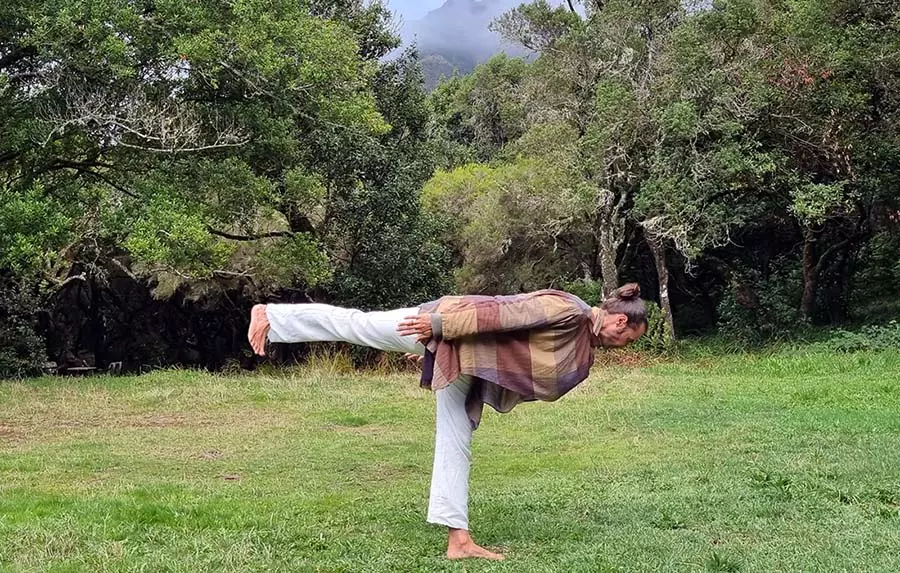
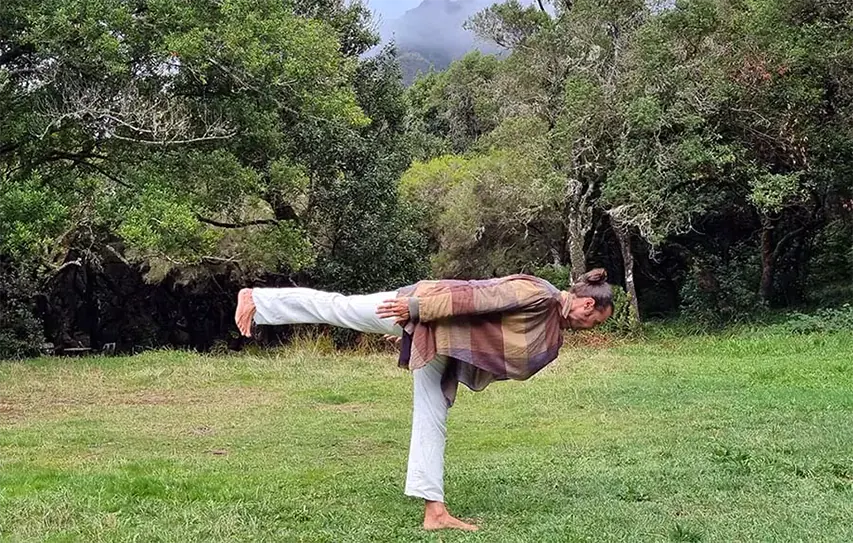
several acts pics

diff --git a/ecodesign.html b/ecodesign.html
@@ -83,7 +83,7 @@
         </div>
       </nav>      
       
-      <section class="home-section bg-dark-30" id="home" data-background="assets/images/missaoheader.png">
+      <section class="home-section bg-dark-30" id="home" data-background="assets/images/missaoheader.webp">
         
         <div class="video-player" data-property="{videoURL:'https://youtu.be/JY6f6TCxRAc', optimizeDisplay: true, containment:'.home-section', startAt:0, mute:false, autoPlay:true, loop:true, opacity:1, showControls:false, showYTLogo:false, vol:25}"></div>
       
@@ -123,60 +123,60 @@
               <div class="col-sm-6 col-md-4 col-lg-4">
                 <div class="gallery-item">
                   <div class="gallery-image">
-                    <a class="gallery" href="assets/images/yoga/yoga12.jpg" title="Prana Yoga">
-                      <img src="assets/images/yoga/yoga1.png" alt="Prana Yoga"><div class="gallery-caption"><div class="gallery-icon"><span class="icon-magnifying-glass"></span></div></div></a></div></div></div>
+                    <a class="gallery" href="assets/images/yoga/yoga12.webp" title="Prana Yoga">
+                      <img src="assets/images/yoga/yoga1.webp" alt="Prana Yoga"><div class="gallery-caption"><div class="gallery-icon"><span class="icon-magnifying-glass"></span></div></div></a></div></div></div>
                       <div class="col-sm-6 col-md-4 col-lg-4">
-                        <div class="gallery-item"><div class="gallery-image"><a class="gallery" href="assets/images/yoga/yoga22.jpg" title="Prana Yoga">
-                          <img src="assets/images/yoga/yoga2.png" alt="Prana Yoga">
+                        <div class="gallery-item"><div class="gallery-image"><a class="gallery" href="assets/images/yoga/yoga22.webp" title="Prana Yoga">
+                          <img src="assets/images/yoga/yoga2.webp" alt="Prana Yoga">
                           <div class="gallery-caption">
                             <div class="gallery-icon"><span class="icon-magnifying-glass"></span></div></div></a></div></div></div>
                             <div class="col-sm-6 col-md-4 col-lg-4">
                               <div class="gallery-item">
-                                <div class="gallery-image"><a class="gallery" href="assets/images/yoga/yoga32.jpg" title="Prana Yoga">
-                                  <img src="assets/images/yoga/yoga3.png" alt="Prana Yoga"><div class="gallery-caption">
+                                <div class="gallery-image"><a class="gallery" href="assets/images/yoga/yoga32.webp" title="Prana Yoga">
+                                  <img src="assets/images/yoga/yoga3.webp" alt="Prana Yoga"><div class="gallery-caption">
                                     <div class="gallery-icon"><span class="icon-magnifying-glass"></span></div></div></a></div></div></div>
                                     <div class="col-sm-6 col-md-4 col-lg-4"><div class="gallery-item"><div class="gallery-image">
-                                      <a class="gallery" href="assets/images/yoga/yoga42.jpg" title="Prana Yoga">
-                                        <img src="assets/images/yoga/yoga4.png" alt="Prana Yoga">
+                                      <a class="gallery" href="assets/images/yoga/yoga42.webp" title="Prana Yoga">
+                                        <img src="assets/images/yoga/yoga4.webp" alt="Prana Yoga">
                                         <div class="gallery-caption"><div class="gallery-icon"><span class="icon-magnifying-glass">
 
                                         </span></div></div></a></div></div></div>
                                         <div class="col-sm-6 col-md-4 col-lg-4"><div class="gallery-item">
                                           <div class="gallery-image">
-                                            <a class="gallery" href="assets/images/yoga/yoga52.png" title="Prana Yoga">
-                                              <img src="assets/images/yoga/yoga5.png" alt="Prana Yoga">
+                                            <a class="gallery" href="assets/images/yoga/yoga52.webp" title="Prana Yoga">
+                                              <img src="assets/images/yoga/yoga5.webp" alt="Prana Yoga">
                                               <div class="gallery-caption"><div class="gallery-icon">
                                                 <span class="icon-magnifying-glass"></span></div></div></a></div></div></div>
                                                 <div class="col-sm-6 col-md-4 col-lg-4"><div class="gallery-item">
                                                   <div class="gallery-image">
-                                                    <a class="gallery" href="assets/images/yoga/yoga62.jpg" title="Prana Yoga">
-                                                      <img src="assets/images/yoga/yoga6.png" alt="Prana Yoga"><div class="gallery-caption">
+                                                    <a class="gallery" href="assets/images/yoga/yoga62.webp" title="Prana Yoga">
+                                                      <img src="assets/images/yoga/yoga6.webp" alt="Prana Yoga"><div class="gallery-caption">
                                                         <div class="gallery-icon"><span class="icon-magnifying-glass"></span></div></div></a></div></div></div>
                                                         <div class="col-sm-6 col-md-4 col-lg-4"><div class="gallery-item"><div class="gallery-image">
-                                                          <a class="gallery" href="assets/images/yoga/yoga72.jpg" title="Prana Yoga">
-                                                            <img src="assets/images/yoga/yoga7.png" alt="Prana Yoga"><div class="gallery-caption">
+                                                          <a class="gallery" href="assets/images/yoga/yoga72.webp" title="Prana Yoga">
+                                                            <img src="assets/images/yoga/yoga7.webp" alt="Prana Yoga"><div class="gallery-caption">
                                                               <div class="gallery-icon"><span class="icon-magnifying-glass"></span></div></div></a></div></div></div>
                                                               <div class="col-sm-6 col-md-4 col-lg-4"><div class="gallery-item"><div class="gallery-image">
-                                                                <a class="gallery" href="assets/images/yoga/yoga82.jpg" title="Prana Yoga">
-                                                                  <img src="assets/images/yoga/yoga8.png" alt="Prana Yoga"><div class="gallery-caption">
+                                                                <a class="gallery" href="assets/images/yoga/yoga82.webp" title="Prana Yoga">
+                                                                  <img src="assets/images/yoga/yoga8.webp" alt="Prana Yoga"><div class="gallery-caption">
                                                                     <div class="gallery-icon"><span class="icon-magnifying-glass"></span></div></div></a></div></div></div>
                                                                     <div class="col-sm-6 col-md-4 col-lg-4"><div class="gallery-item"><div class="gallery-image">
-                                                                      <a class="gallery" href="assets/images/yoga/yoga102.jpg" title="Prana Yoga">
-                                                                        <img src="assets/images/yoga/yoga10.png" alt="Prana Yoga"><div class="gallery-caption">
+                                                                      <a class="gallery" href="assets/images/yoga/yoga102.webp" title="Prana Yoga">
+                                                                        <img src="assets/images/yoga/yoga10.webp" alt="Prana Yoga"><div class="gallery-caption">
                                                                           <div class="gallery-icon"><span class="icon-magnifying-glass"></span></div></div></a></div></div></div>
                                                                          
                                                                                 <div class="col-sm-6 col-md-4 col-lg-4"><div class="gallery-item"><div class="gallery-image">
-                                                                                  <a class="gallery" href="assets/images/yoga/yoga122.jpg" title="Prana Yoga">
-                                                                                    <img src="assets/images/yoga/yoga12.png" alt="Prana Yoga"><div class="gallery-caption">
+                                                                                  <a class="gallery" href="assets/images/yoga/yoga122.webp" title="Prana Yoga">
+                                                                                    <img src="assets/images/yoga/yoga12.webp" alt="Prana Yoga"><div class="gallery-caption">
                                                                                       <div class="gallery-icon"><span class="icon-magnifying-glass"></span></div></div></a></div></div></div>
                                                                     <div class="col-sm-6 col-md-4 col-lg-4"><div class="gallery-item"><div class="gallery-image">
-                                                                      <a class="gallery" href="assets/images/yoga/yoga92.png" title="Prana Yoga">
-                                                                        <img src="assets/images/yoga/yoga9.png" alt="Prana Yoga"><div class="gallery-caption">
+                                                                      <a class="gallery" href="assets/images/yoga/yoga92.webp" title="Prana Yoga">
+                                                                        <img src="assets/images/yoga/yoga9.webp" alt="Prana Yoga"><div class="gallery-caption">
                                                                           <div class="gallery-icon"><span class="icon-magnifying-glass"></span></div></div></a></div></div></div>
                                                                           
                                                                                             <div class="col-sm-6 col-md-4 col-lg-4"><div class="gallery-item"><div class="gallery-image">
-                                                                                              <a class="gallery" href="assets/images/yoga/yoga132.jpg" title="Prana Yoga">
-                                                                                                <img src="assets/images/yoga/yoga13.png" alt="Prana Yoga"><div class="gallery-caption">
+                                                                                              <a class="gallery" href="assets/images/yoga/yoga132.webp" title="Prana Yoga">
+                                                                                                <img src="assets/images/yoga/yoga13.webp" alt="Prana Yoga"><div class="gallery-caption">
                                                                                                   <div class="gallery-icon"><span class="icon-magnifying-glass"></span></div></div></a></div></div></div>
                                                                         </div>
             <div class="row">
@@ -200,14 +200,14 @@
                 </ul>-->    
                 <ul class="works-grid works-grid-gut works-hover-g" id="works-grid" style="margin-bottom:60px;">
                   <li class="work-item illustration webdesign"><a href="missao.html">
-                      <div class="work-image"><img src="assets/images/aulasp.png" alt="Portfolio Item"/></div>
+                      <div class="work-image"><img src="assets/images/aulasp.webp" alt="Portfolio Item"/></div>
                       <div class="work-caption font-alt">
-                        <img src="assets/images/yogA/yoga personalizada.jpg" alt="Portfolio Item"/>
+                        <img src="assets/images/yogA/yoga personalizada.webp" alt="Portfolio Item"/>
                       </div></a></li>
                   <li class="work-item marketing photography"><a href="portfolio_single_featured_image2.html">
-                    <div class="work-image"><img src="assets/images/aulasg.png" alt="Portfolio Item"/></div>
+                    <div class="work-image"><img src="assets/images/aulasg.webp" alt="Portfolio Item"/></div>
                       <div class="work-caption font-alt">
-                        <img src="assets/images/yoga/aulagrupo.jpg" alt="Portfolio Item"/>
+                        <img src="assets/images/yoga/aulagrupo.webp" alt="Portfolio Item"/>
                       </div></a></li>
                 </ul>  
               </div>

diff --git a/yoga.html b/yoga.html
@@ -38,6 +38,9 @@
     <!-- Default stylesheets-->
     <link href="assets/lib/bootstrap/dist/css/bootstrap.min.css" rel="stylesheet">
     <!-- Template specific stylesheets-->
+    <link href="https://fonts.googleapis.com/css?family=Roboto+Condensed:400,700" rel="stylesheet">
+    <link href="https://fonts.googleapis.com/css?family=Volkhov:400i" rel="stylesheet">
+    <link href="https://fonts.googleapis.com/css?family=Open+Sans:300,400,600,700,800" rel="stylesheet">
     <link href="assets/lib/animate.css/animate.css" rel="stylesheet">
     <link href="assets/lib/components-font-awesome/css/font-awesome.min.css" rel="stylesheet">
     <link href="assets/lib/et-line-font/et-line-font.css" rel="stylesheet">
@@ -80,7 +83,7 @@
         </div>
       </nav>      
       
-      <section class="home-section bg-dark-30" id="home" data-background="assets/images/missaoheader.png">
+      <section class="home-section bg-dark-30" id="home" data-background="assets/images/missaoheader.webp">
         
         <div class="video-player" data-property="{videoURL:'https://youtu.be/JY6f6TCxRAc', optimizeDisplay: true, containment:'.home-section', startAt:0, mute:false, autoPlay:true, loop:true, opacity:1, showControls:false, showYTLogo:false, vol:25}"></div>
       
@@ -197,14 +200,14 @@
                 </ul>-->    
                 <ul class="works-grid works-grid-gut works-hover-g" id="works-grid" style="margin-bottom:60px;">
                   <li class="work-item illustration webdesign"><a href="missao.html">
-                      <div class="work-image"><img src="assets/images/aulasp.png" alt="Portfolio Item"/></div>
+                      <div class="work-image"><img src="assets/images/aulasp.webp" alt="Portfolio Item"/></div>
                       <div class="work-caption font-alt">
-                        <img src="assets/images/yogA/yoga personalizada.jpg" alt="Portfolio Item"/>
+                        <img src="assets/images/yogA/yoga personalizada.webp" alt="Portfolio Item"/>
                       </div></a></li>
                   <li class="work-item marketing photography"><a href="portfolio_single_featured_image2.html">
-                    <div class="work-image"><img src="assets/images/aulasg.png" alt="Portfolio Item"/></div>
+                    <div class="work-image"><img src="assets/images/aulasg.webp" alt="Portfolio Item"/></div>
                       <div class="work-caption font-alt">
-                        <img src="assets/images/yoga/aulagrupo.jpg" alt="Portfolio Item"/>
+                        <img src="assets/images/yoga/aulagrupo.webp" alt="Portfolio Item"/>
                       </div></a></li>
                 </ul>  
               </div>

diff --git a/quemsomos.html b/quemsomos.html
@@ -83,16 +83,7 @@
         </div>
       </nav>      
       <div class="main">
-        <!--<section class="module bg-dark-60 portfolio-page-header" data-background="assets/images/portfolio/portfolio_header_bg.jpg">
-          <div class="container">
-            <div class="row">
-              <div class="col-sm-6 col-sm-offset-3">
-                <h2 class="module-title font-alt">Portfolio Full Width</h2>
-                <div class="module-subtitle font-serif">A wonderful serenity has taken possession of my entire soul, like these sweet mornings of spring which I enjoy with my whole heart.</div>
-              </div>
-            </div>
-          </div>
-        </section>-->
+ 
         <section class="module pb-0">
           <div class="container">
             <div class="row">
@@ -110,19 +101,19 @@
         
           <ul class="works-grid works-grid-gut works-grid-3 works-hover-g" id="works-grid">
             <li class="work-item illustration webdesign" id="work-item-quemsomos"><a href="missao.html">
-                <div class="work-image"><img src="assets/images/missao1.png" alt="Portfolio Item"/></div>
+                <div class="work-image"><img src="assets/images/missao1.webp" alt="Portfolio Item"/></div>
                 <div class="work-caption font-alt">
-                  <img src="assets/images/missao.png" alt="Missão Seiva Atelier"/>
+                  <img src="assets/images/missao.webp" alt="Missão Seiva Atelier"/>
                 </div></a></li>
             <li class="work-item marketing photography" id="work-item-quemsomos"><a href="atelier.html">
-                <div class="work-image"><img src="assets/images/atelier1.png" alt="Portfolio Item"/></div>
+                <div class="work-image"><img src="assets/images/atelier1.webp" alt="Portfolio Item"/></div>
                 <div class="work-caption font-alt">
-                  <img src="assets/images/atelier.png" alt="Atelier Seiva Atelier"/>
+                  <img src="assets/images/atelier.webp" alt="Atelier Seiva Atelier"/>
                 </div></a></li>
             <li class="work-item illustration photography" id="work-item-quemsomos"><a href="equipa.html">
-                <div class="work-image"><img src="assets/images/equipa.png" alt="Portfolio Item"/></div>
+                <div class="work-image"><img src="assets/images/equipa1.webp" alt="Portfolio Item"/></div>
                 <div class="work-caption font-alt">
-                  <img src="assets/images/equipa.jpg" alt="Equipa Seiva Atelier"/>
+                  <img src="assets/images/equipa.webp" alt="Equipa Seiva Atelier"/>
                 </div></a></li>
             
           </ul>

diff --git a/equipa.html b/equipa.html
@@ -87,20 +87,20 @@
         <section class="module pb-0">
           <ul class="works-grid works-grid-gut works-grid-3 works-hover-g" id="works-grid">
             <li class="work-item illustration webdesign" id="work-item-quemsomos"><a href="missao.html">
-                <div class="work-image"><img src="assets/images/nuno.png" alt="Nuno Gonçalo"/></div>
+                <div class="work-image"><img src="assets/images/nuno.webp" alt="Nuno Gonçalo"/></div>
                 <div class="work-caption font-alt">
                   <div class="work-title">Nuno Goncalo</div>
                   <div class="work-descr">Artista e Ecodesigner</div>
                   
                 </div></a></li>
             <li class="work-item marketing photography" id="work-item-quemsomos"><a href="atelier.html">
-                <div class="work-image"><img src="assets/images/goncalo.png" alt="Gonçalo Quirino"/></div>
+                <div class="work-image"><img src="assets/images/goncalo.webp" alt="Gonçalo Quirino"/></div>
                 <div class="work-caption font-alt">
                   <div class="work-title">Goncalo Quirino</div>
                   <div class="work-descr">Artista, Ecodesigner e Pedagogo</div>
                 </div></a></li>
             <li class="work-item illustration photography" id="work-item-quemsomos"><a href="equipa.html">
-                <div class="work-image"><img src="assets/images/samanta.png" alt="Samanta Quirino"/></div>
+                <div class="work-image"><img src="assets/images/samanta.webp" alt="Samanta Quirino"/></div>
                 <div class="work-caption font-alt">
                   <div class="work-title">Samanta Quirino</div>
                   <div class="work-descr">Artista, Ecodesigner e Pedagoga</div>

diff --git a/atelier.html b/atelier.html
@@ -83,7 +83,7 @@
         </div>
       </nav>      
       
-      <section class="home-section bg-dark-30" id="home" data-background="assets/images/missaoheader.png">
+      <section class="home-section bg-dark-30" id="home" data-background="assets/images/missaoheader.webp">
         
         <div class="video-player" data-property="{videoURL:'https://youtu.be/JY6f6TCxRAc', optimizeDisplay: true, containment:'.home-section', startAt:0, mute:false, autoPlay:true, loop:true, opacity:1, showControls:false, showYTLogo:false, vol:25}"></div>
       

diff --git a/missao.html b/missao.html
@@ -82,7 +82,7 @@
           </div>
         </div>
       </nav>      
-      <section class="home-section  bg-light" id="home" data-background="assets/images/missaoheader.png">
+      <section class="home-section  bg-light" id="home" data-background="assets/images/missaoheader.webp">
         
        
       </section>        

diff --git a/agenda.html b/agenda.html
@@ -83,7 +83,7 @@
         </div>
       </nav>      
       
-      <section class="home-section bg-light" id="home" data-background="assets/images/const.png">
+      <section class="home-section bg-light" id="home" data-background="assets/images/const.webp">
         
        
       </section>

diff --git a/bazar.html b/bazar.html
@@ -83,7 +83,7 @@
         </div>
       </nav>      
       
-      <section class="home-section bg-light" id="home" data-background="assets/images/const.png">
+      <section class="home-section bg-light" id="home" data-background="assets/images/const.webp">
         
        
       </section>

diff --git a/const.html b/const.html
@@ -83,7 +83,7 @@
         </div>
       </nav>      
       
-      <section class="home-section bg-light" id="home" data-background="assets/images/const.png">
+      <section class="home-section bg-light" id="home" data-background="assets/images/const.webp">
         
        
       </section>

diff --git a/drogaria.html b/drogaria.html
@@ -83,7 +83,7 @@
         </div>
       </nav>      
       
-      <section class="home-section bg-light" id="home" data-background="assets/images/const.png">
+      <section class="home-section bg-light" id="home" data-background="assets/images/const.webp">
         
        
       </section>
